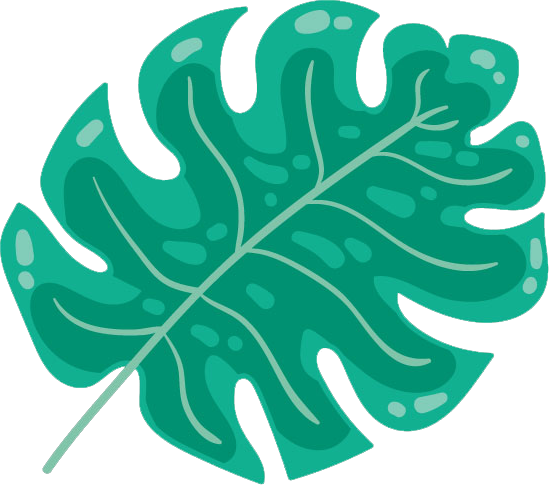
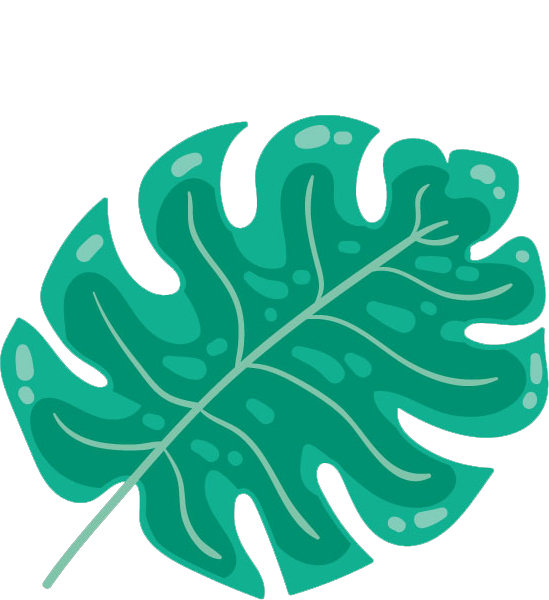
fixes background position

diff --git a/components/screens/LoginPage.tsx b/components/screens/LoginPage.tsx
@@ -6,6 +6,7 @@ import {
   TouchableOpacity,
   StyleSheet,
   Image,
+  ImageBackground,
 } from "react-native";
 import signUp from "../utils/signUpData";
 import signIn from "../utils/signInUser";
@@ -145,8 +146,8 @@ export function LoginScreen({ navigation }) {
           </View>
         </>
       )}
-      <Image
-        style={styles.backgroundFeature}
+      <ImageBackground
+        style={styles.backgroundImage}
         source={require("../../assets/bg-leaf.png")}
       />
     </View>
@@ -201,14 +202,9 @@ const styles = StyleSheet.create({
   },
   changeModeText: { color: "#009172", fontWeight: "bold" },
   errorMessage: { marginTop: 10, color: "red" },
-  backgroundFeature: {
-    // backgroundColor: "red",
-    // marginTop: 20,
-    width: "100%",
-    position: "absolute",
-    bottom: -200,
-    // marginHorizontal: 20,
-    resizeMode: "contain",
+  backgroundImage: {
+    flex: 1,
+    marginTop: 50,
   },
 });
 
